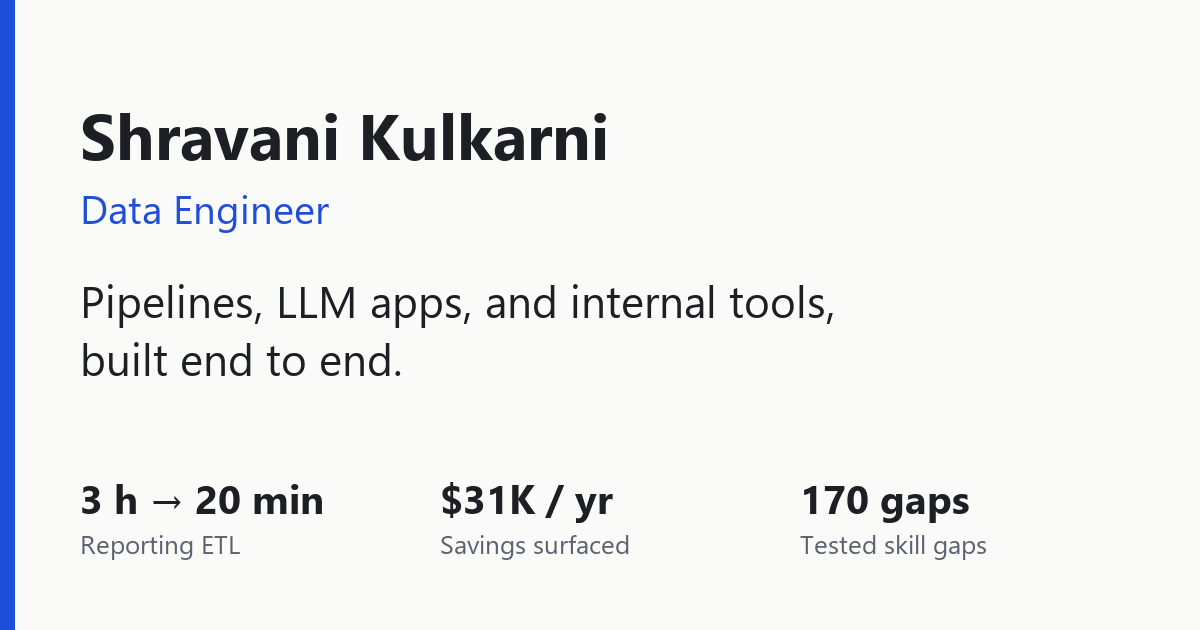
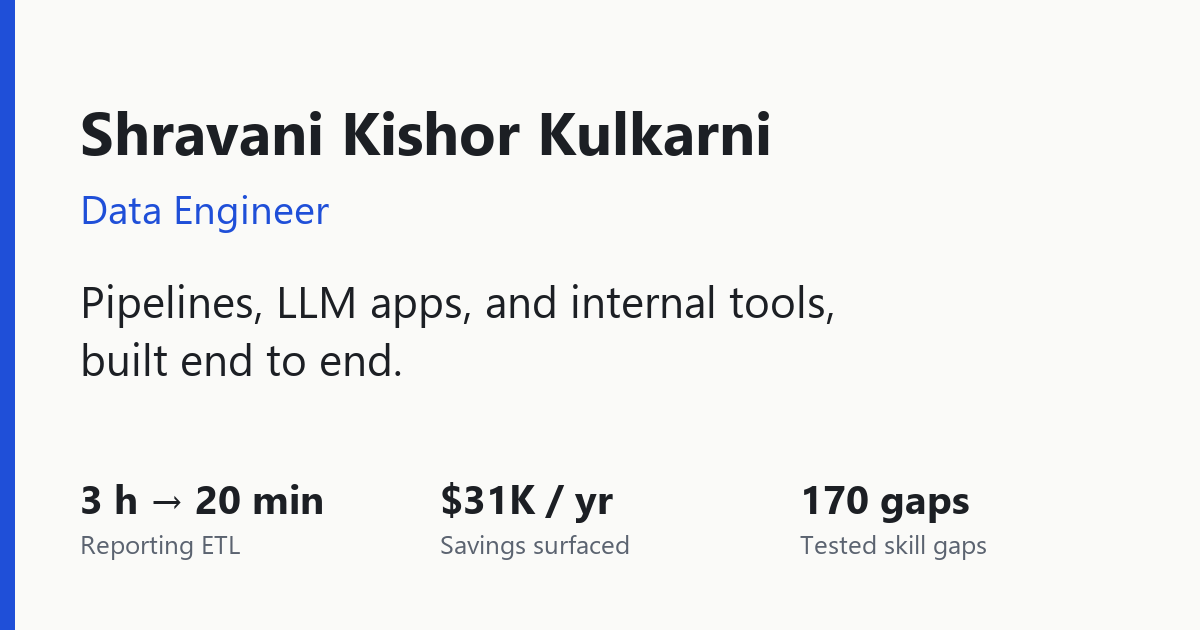
Use full name: Shravani Kishor Kulkarni

Changed region(s): [[0.0617, 0.181, 0.6475, 0.2714]]

diff --git a/index.html b/index.html
@@ -3,21 +3,21 @@
 <head>
 <meta charset="utf-8">
 <meta name="viewport" content="width=device-width, initial-scale=1">
-<title>Shravani Kulkarni | Data Engineer</title>
+<title>Shravani Kishor Kulkarni | Data Engineer</title>
 <meta name="description" content="Data Engineer who builds pipelines, LLM apps, and internal tools end to end. Python, SQL, RAG, Power BI.">
 <meta name="color-scheme" content="light dark">
 <link rel="icon" href="favicon.svg" type="image/svg+xml">
 <link rel="canonical" href="https://shravanikulkarni-mu.vercel.app/">
 <meta property="og:type" content="website">
-<meta property="og:site_name" content="Shravani Kulkarni">
-<meta property="og:title" content="Shravani Kulkarni | Data Engineer">
+<meta property="og:site_name" content="Shravani Kishor Kulkarni">
+<meta property="og:title" content="Shravani Kishor Kulkarni | Data Engineer">
 <meta property="og:description" content="Pipelines, LLM apps, and internal tools, built end to end. Python, SQL, RAG, Power BI.">
 <meta property="og:url" content="https://shravanikulkarni-mu.vercel.app/">
 <meta property="og:image" content="https://shravanikulkarni-mu.vercel.app/og.png">
 <meta property="og:image:width" content="1200">
 <meta property="og:image:height" content="630">
 <meta name="twitter:card" content="summary_large_image">
-<meta name="twitter:title" content="Shravani Kulkarni | Data Engineer">
+<meta name="twitter:title" content="Shravani Kishor Kulkarni | Data Engineer">
 <meta name="twitter:description" content="Pipelines, LLM apps, and internal tools, built end to end.">
 <meta name="twitter:image" content="https://shravanikulkarni-mu.vercel.app/og.png">
 <script>
@@ -30,7 +30,7 @@
 
 <header class="top">
   <div class="wrap bar">
-    <a class="brand" href="#top"><span class="logo">SK</span><span class="brand-name">Shravani Kulkarni</span></a>
+    <a class="brand" href="#top"><span class="logo">SK</span><span class="brand-name">Shravani Kishor Kulkarni</span></a>
     <nav aria-label="Primary">
       <a href="#work">Work</a>
       <a href="#experience">Experience</a>
@@ -51,7 +51,7 @@
   <div class="wrap hero-grid">
     <div class="hero-copy">
       <p class="pill"><span class="dot"></span>Tempe, AZ · Open to relocation</p>
-      <h1>Shravani Kulkarni</h1>
+      <h1>Shravani Kishor Kulkarni</h1>
       <p class="role">Data Engineer</p>
       <p class="pitch">I build data pipelines, LLM apps, and internal tools, end to end.</p>
       <p class="lede">I shipped a RAG assistant and Python/SQL pipelines that cut a 3-hour process to 20 minutes, and built an analytics app that surfaced $31K in yearly savings. I test LLMs against simple baselines before shipping them, and I work directly with non-technical teams to turn vague asks into working systems.</p>
@@ -63,7 +63,7 @@
       </div>
     </div>
     <div class="hero-photo">
-      <div class="photo-frame"><img src="headshot.png" alt="Portrait of Shravani Kulkarni" width="480" height="480"></div>
+      <div class="photo-frame"><img src="headshot.png" alt="Portrait of Shravani Kishor Kulkarni" width="480" height="480"></div>
     </div>
   </div>
   <div class="wrap">
@@ -257,7 +257,7 @@
 </main>
 
 <footer class="wrap foot">
-  <span>Shravani Kulkarni</span>
+  <span>Shravani Kishor Kulkarni</span>
   <span><a href="https://github.com/shravanii15" target="_blank" rel="noopener">GitHub</a> · <a href="https://www.linkedin.com/in/shravani-kulkarni2003/" target="_blank" rel="noopener">LinkedIn</a> · <a href="https://drive.google.com/file/d/1VD20Q1ZDSuOYR6wA9f7kshZLSj4AENpf/view?usp=sharing" target="_blank" rel="noopener">Resume</a></span>
 </footer>
 

diff --git a/styles.css b/styles.css
@@ -43,7 +43,7 @@ nav a:hover{color:var(--text);background:var(--surface-2)}
 .hero-grid{position:relative;z-index:1;display:grid;grid-template-columns:1.25fr .75fr;gap:48px;align-items:center}
 .pill{display:inline-flex;align-items:center;gap:8px;padding:6px 14px;border:1px solid var(--line);background:var(--surface);border-radius:999px;font-size:.86rem;color:var(--muted);box-shadow:var(--shadow)}
 .dot{width:8px;height:8px;border-radius:50%;background:#22c55e;box-shadow:0 0 0 4px rgba(34,197,94,.18)}
-h1{font-size:clamp(2.4rem,6vw,4rem);letter-spacing:-.03em;margin:20px 0 6px;font-weight:800}
+h1{font-size:clamp(2.2rem,5.2vw,3.5rem);letter-spacing:-.03em;margin:20px 0 6px;font-weight:800}
 .role{font-size:clamp(1.2rem,2.6vw,1.6rem);font-weight:700;margin:0 0 14px;background:linear-gradient(90deg,var(--accent),var(--accent-2));-webkit-background-clip:text;background-clip:text;color:transparent;width:fit-content}
 .pitch{font-size:1.2rem;font-weight:600;max-width:34ch;margin-bottom:10px}
 .lede{color:var(--muted);max-width:60ch;margin-bottom:26px}
